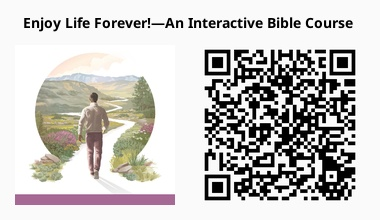
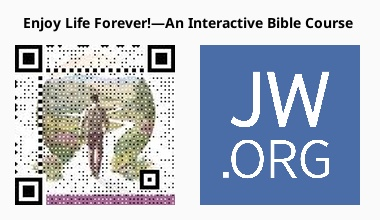
Added more designs

diff --git a/index.py b/index.py
@@ -16,6 +16,13 @@ from docx.shared import Inches, Mm
 import logging
 import time
 import segno
+from qrcode.image.styledpil import StyledPilImage
+from qrcode.image.styles.moduledrawers import (
+    RoundedModuleDrawer,
+    VerticalBarsDrawer,
+    GappedSquareModuleDrawer,
+)
+from qrcode.image.styles.colormasks import RadialGradiantColorMask
 
 logging.basicConfig(
     level=logging.INFO,
@@ -114,7 +121,7 @@ def qr_processor(
     return eval(f"gen_qr_{article_design}")(article_link, article_title)
 
 
-def gen_qr(article_link="", article_title="", with_logo=True):
+def gen_qr(article_link="", article_title="", with_logo=True, design=None):
     if not article_link:
         return
 
@@ -133,7 +140,9 @@ def gen_qr(article_link="", article_title="", with_logo=True):
             description=f"Opps!! Something is wrong somewhere. Please try another link.",
         )
     left_image = get_article_image(image_url=links.get("image", ""))
-    right_image = get_qr_image(article_link=article_link, with_logo=with_logo)
+    right_image = get_qr_image(
+        article_link=article_link, with_logo=with_logo, design=design
+    )
     article_size = left_image.size
     complete_qr_image = Image.new(
         "RGB", (2 * article_size[0], article_size[1] + IMAGE_OFFSET), (250, 250, 250)
@@ -151,6 +160,7 @@ def gen_qr(article_link="", article_title="", with_logo=True):
     )
     complete_qr_image = draw_border(image=complete_qr_image)
     qr_file = io.BytesIO()
+    # complete_qr_image.save("test.jpg", "JPEG", quality=95)
     complete_qr_image.save(qr_file, "JPEG", quality=95)
     qr_file.seek(0)
     return qr_file
@@ -160,13 +170,43 @@ def gen_qr_1(article_link="", article_title=""):
     return gen_qr(article_link=article_link, article_title=article_title)
 
 
-def gen_qr_2(article_link="", article_title=""):
+def gen_qr_3(article_link="", article_title=""):
     return gen_qr(
-        article_link=article_link, article_title=article_title, with_logo=False
+        article_link=article_link,
+        article_title=article_title,
+        with_logo=False,
+        design=1,
     )
 
 
-def gen_qr_3(article_link="", article_title=""):
+def gen_qr_4(article_link="", article_title=""):
+    return gen_qr(
+        article_link=article_link,
+        article_title=article_title,
+        with_logo=False,
+        design=2,
+    )
+
+
+def gen_qr_5(article_link="", article_title=""):
+    return gen_qr(
+        article_link=article_link,
+        article_title=article_title,
+        with_logo=False,
+        design=3,
+    )
+
+
+def gen_qr_6(article_link="", article_title=""):
+    return gen_qr(
+        article_link=article_link,
+        article_title=article_title,
+        with_logo=False,
+        design=4,
+    )
+
+
+def gen_qr_2(article_link="", article_title=""):
     if not article_link:
         return
 
@@ -347,17 +387,50 @@ def prepare_link(article_link):
     return article_link
 
 
-def get_qr_image(article_link, with_logo=True):
+def get_qr_image(article_link, with_logo=True, design=None):
     QRcode = qrcode.QRCode(error_correction=qrcode.constants.ERROR_CORRECT_H)
     QRcode.add_data(prepare_link(article_link=article_link))
     QRcode.make()
-    QRimg = QRcode.make_image(back_color=(250, 250, 250)).convert("RGB")
+    QRimg = get_design_qr(QRcode, design=design)
     if with_logo:
         logo = prepare_logo()
         pos = ((QRimg.size[0] - logo.size[0]) // 2, (QRimg.size[1] - logo.size[1]) // 2)
         QRimg.paste(logo, pos)
     QRimg = QRimg.resize(ARTICLE_QR_SIZE, Image.ANTIALIAS)
     return QRimg
+
+
+def get_design_qr(qr, design=None):
+    if not design:
+        return qr.make_image(back_color=(250, 250, 250)).convert("RGB")
+
+    img = None
+    if design == 1:
+        img = qr.make_image(
+            back_color=(250, 250, 250),
+            image_factory=StyledPilImage,
+            module_drawer=VerticalBarsDrawer(),
+        ).convert("RGB")
+    elif design == 2:
+        img = qr.make_image(
+            back_color=(250, 250, 250),
+            image_factory=StyledPilImage,
+            module_drawer=RoundedModuleDrawer(),
+        ).convert("RGB")
+    elif design == 3:
+        img = qr.make_image(
+            back_color=(250, 250, 250),
+            image_factory=StyledPilImage,
+            module_drawer=GappedSquareModuleDrawer(),
+        ).convert("RGB")
+    elif design == 4:
+        img = qr.make_image(
+            back_color=(250, 250, 250),
+            image_factory=StyledPilImage,
+            color_mask=RadialGradiantColorMask(),
+        ).convert("RGB")
+
+    return img
 
 
 def draw_border(image, size=(2, 2, 2, 2), color="black"):
